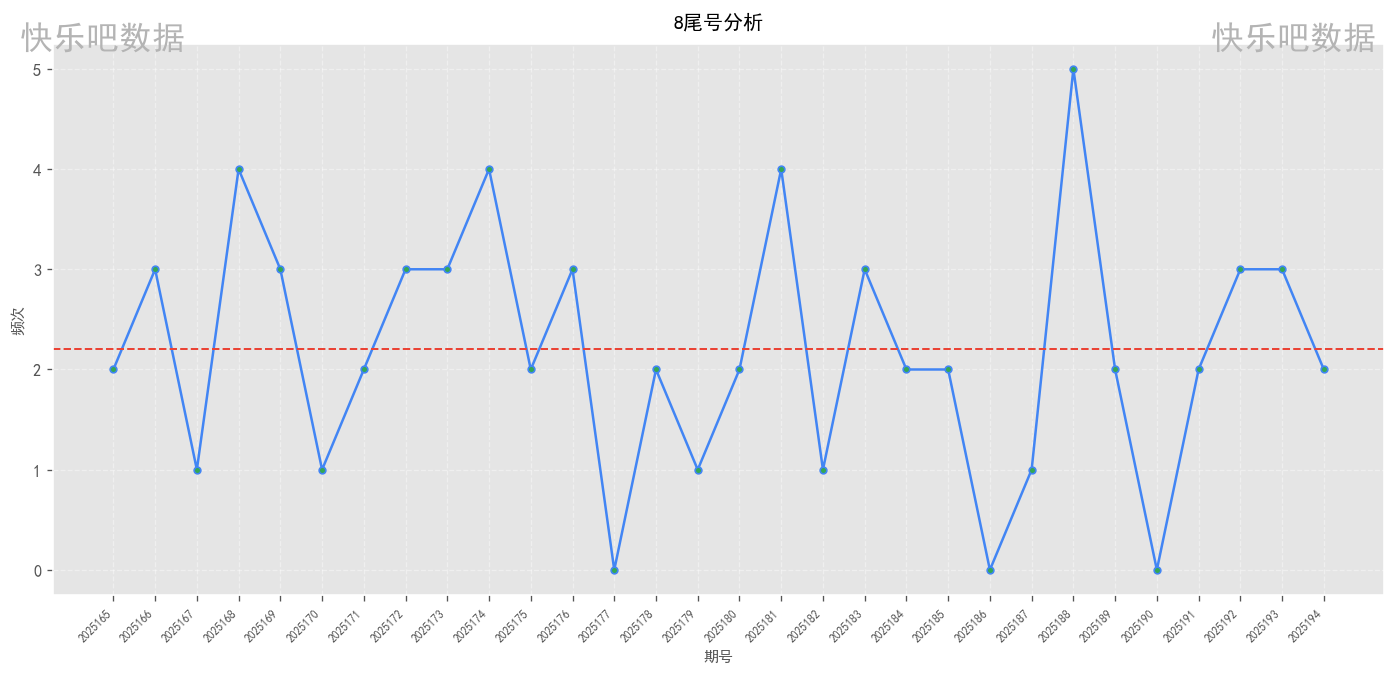
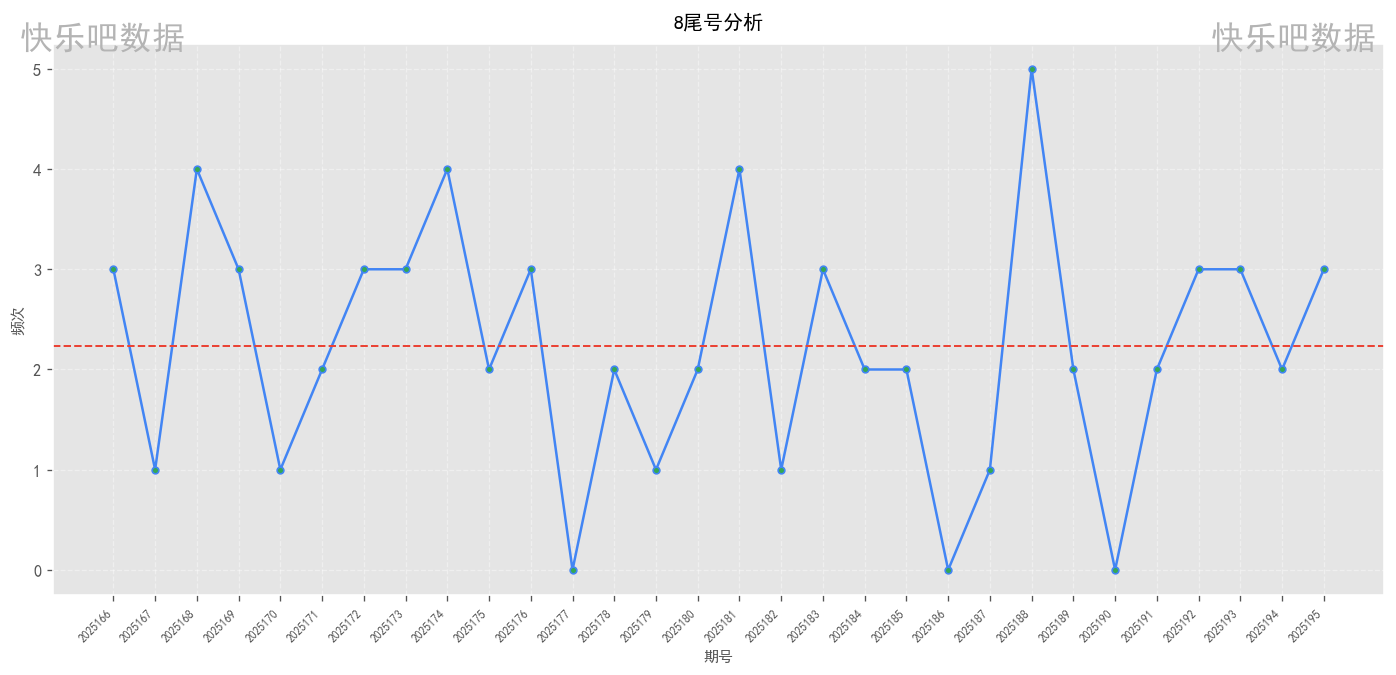
自动提交报告 20250724_2241

diff --git a/快乐8尾号分析项目/数据报告/20250724/report.html b/快乐8尾号分析项目/数据报告/20250724/report.html
@@ -440,7 +440,7 @@
                     <div class="label">尾号区间</div>
                 </div>
                 <div class="overview-card">
-                    <div class="value">2025194</div>
+                    <div class="value">2025195</div>
                     <div class="label">最新期号</div>
                 </div>
                 <div class="overview-card">
@@ -464,11 +464,11 @@
             <div class="stats-summary">
                 <div class="stat-item">
                     <span class="stat-label">历史平均</span>
-                    <span class="stat-value">2.33</span>
+                    <span class="stat-value">2.30</span>
                 </div>
                 <div class="stat-item">
                     <span class="stat-label">近期平均</span>
-                    <span class="stat-value">2.80</span>
+                    <span class="stat-value">2.40</span>
                 </div>
                 <div class="stat-item">
                     <span class="stat-label">最高频次</span>
@@ -486,11 +486,11 @@
             <div class="stats-summary">
                 <div class="stat-item">
                     <span class="stat-label">历史平均</span>
-                    <span class="stat-value">1.90</span>
+                    <span class="stat-value">1.87</span>
                 </div>
                 <div class="stat-item">
                     <span class="stat-label">近期平均</span>
-                    <span class="stat-value">2.60</span>
+                    <span class="stat-value">2.00</span>
                 </div>
                 <div class="stat-item">
                     <span class="stat-label">最高频次</span>
@@ -508,11 +508,11 @@
             <div class="stats-summary">
                 <div class="stat-item">
                     <span class="stat-label">历史平均</span>
-                    <span class="stat-value">1.93</span>
+                    <span class="stat-value">1.97</span>
                 </div>
                 <div class="stat-item">
                     <span class="stat-label">近期平均</span>
-                    <span class="stat-value">1.60</span>
+                    <span class="stat-value">2.20</span>
                 </div>
                 <div class="stat-item">
                     <span class="stat-label">最高频次</span>
@@ -530,11 +530,11 @@
             <div class="stats-summary">
                 <div class="stat-item">
                     <span class="stat-label">历史平均</span>
-                    <span class="stat-value">2.03</span>
+                    <span class="stat-value">2.07</span>
                 </div>
                 <div class="stat-item">
                     <span class="stat-label">近期平均</span>
-                    <span class="stat-value">1.80</span>
+                    <span class="stat-value">2.00</span>
                 </div>
                 <div class="stat-item">
                     <span class="stat-label">最高频次</span>
@@ -556,7 +556,7 @@
                 </div>
                 <div class="stat-item">
                     <span class="stat-label">近期平均</span>
-                    <span class="stat-value">1.80</span>
+                    <span class="stat-value">1.60</span>
                 </div>
                 <div class="stat-item">
                     <span class="stat-label">最高频次</span>
@@ -574,11 +574,11 @@
             <div class="stats-summary">
                 <div class="stat-item">
                     <span class="stat-label">历史平均</span>
-                    <span class="stat-value">2.20</span>
+                    <span class="stat-value">2.27</span>
                 </div>
                 <div class="stat-item">
                     <span class="stat-label">近期平均</span>
-                    <span class="stat-value">2.00</span>
+                    <span class="stat-value">2.20</span>
                 </div>
                 <div class="stat-item">
                     <span class="stat-label">最高频次</span>
@@ -596,11 +596,11 @@
             <div class="stats-summary">
                 <div class="stat-item">
                     <span class="stat-label">历史平均</span>
-                    <span class="stat-value">2.33</span>
+                    <span class="stat-value">2.37</span>
                 </div>
                 <div class="stat-item">
                     <span class="stat-label">近期平均</span>
-                    <span class="stat-value">2.20</span>
+                    <span class="stat-value">2.00</span>
                 </div>
                 <div class="stat-item">
                     <span class="stat-label">最高频次</span>
@@ -618,11 +618,11 @@
             <div class="stats-summary">
                 <div class="stat-item">
                     <span class="stat-label">历史平均</span>
-                    <span class="stat-value">1.63</span>
+                    <span class="stat-value">1.57</span>
                 </div>
                 <div class="stat-item">
                     <span class="stat-label">近期平均</span>
-                    <span class="stat-value">1.20</span>
+                    <span class="stat-value">1.00</span>
                 </div>
                 <div class="stat-item">
                     <span class="stat-label">最高频次</span>
@@ -640,11 +640,11 @@
             <div class="stats-summary">
                 <div class="stat-item">
                     <span class="stat-label">历史平均</span>
-                    <span class="stat-value">2.20</span>
+                    <span class="stat-value">2.23</span>
                 </div>
                 <div class="stat-item">
                     <span class="stat-label">近期平均</span>
-                    <span class="stat-value">2.00</span>
+                    <span class="stat-value">2.60</span>
                 </div>
                 <div class="stat-item">
                     <span class="stat-label">最高频次</span>
@@ -662,7 +662,7 @@
             <div class="stats-summary">
                 <div class="stat-item">
                     <span class="stat-label">历史平均</span>
-                    <span class="stat-value">1.73</span>
+                    <span class="stat-value">1.67</span>
                 </div>
                 <div class="stat-item">
                     <span class="stat-label">近期平均</span>
@@ -690,7 +690,7 @@
         <div class="disclaimer">
             <div class="disclaimer-title"><i class="fas fa-exclamation-circle"></i> 法律声明</div>
             <p>本分析报告基于中国福利彩票官网公开数据制作，仅供历史数据分析与参考，严禁用于赌博或任何违法违规用途。</p>
-            <p>根据中国法律，禁止向未成年人传播彩票相关信息。数据统计周期: 2025165期-2025194期 | 生成时间: 2025-07-24 10:35</p>
+            <p>根据中国法律，禁止向未成年人传播彩票相关信息。数据统计周期: 2025166期-2025195期 | 生成时间: 2025-07-24 22:41</p>
         </div>
 
         <!-- 操作按钮 -->

diff --git a/index.html b/index.html
@@ -51,7 +51,7 @@
                 立即查看今日报告
             </a>
         </p>
-        <p>生成时间: 2025-07-24 22:40</p>
+        <p>生成时间: 2025-07-24 22:41</p>
     </div>
 
     <script>
